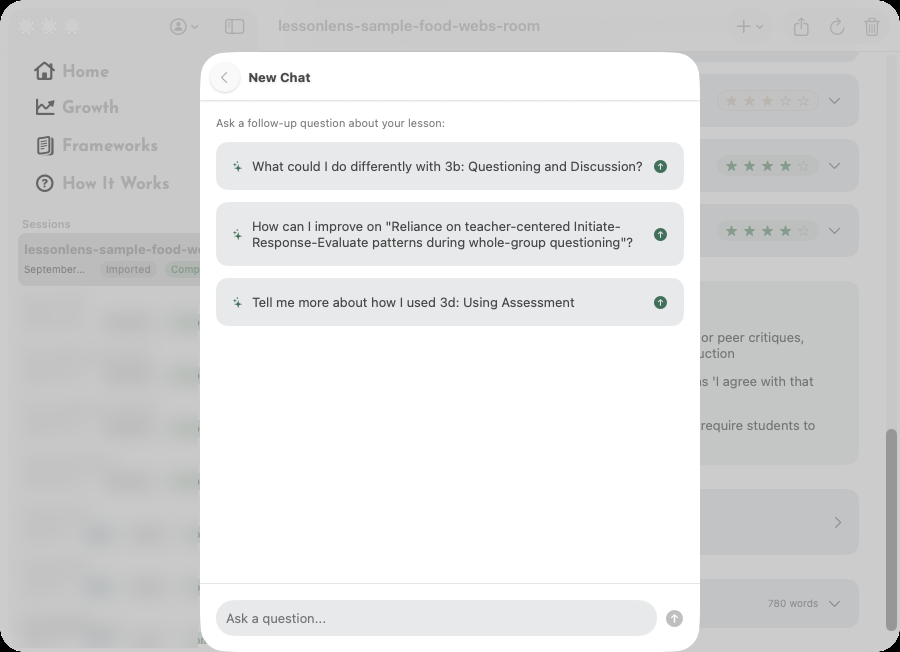
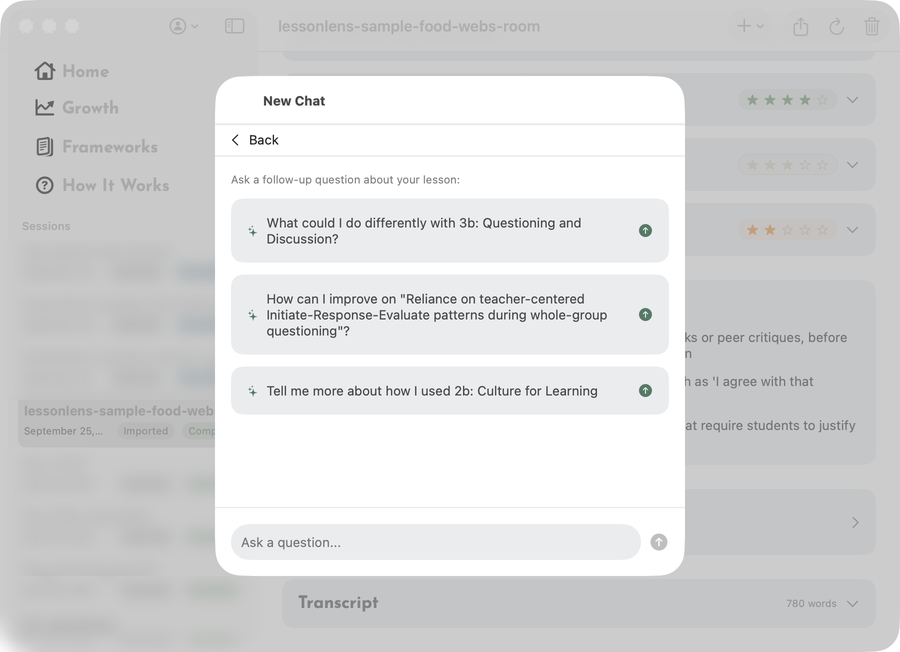
Recapture the coaching chat help screenshot for the new Back button
PR #13 replaced the dim system Back chevron in the Coaching Chats sheet
with an in-content "‹ Back" button. The help page's chat step still
showed the old chevron, and its "Back" tour hotspot pointed at it.

- docs/help/img/chat.png: new 900x652 capture of the New Chat screen on
  the fictional sample lesson "lessonlens-sample-food-webs-room", taken
  from a Debug build of main in light mode (matching the other help
  images). Captured at 2x and downscaled. Every sidebar session row
  except the sample lesson is Gaussian-blurred, including the part of
  the sidebar below the chat sheet, so no real session titles are
  published; checked by zooming the sidebar region.
- docs/help/help-steps.js: moved all three chat tour hotspots
  (Suggested questions, Ask a question..., Back) to the new layout and
  checked them by drawing them onto the image. The step text and UI
  labels are unchanged. "updated" is now 2026-09-28; "appVersion" stays
  1.1.1 because no release includes the new button yet.
- docs/help/img/chat-reply.png: deleted. No help step referenced it,
  and it showed both the old Back chevron and raw Markdown from before
  chat replies rendered Markdown (PR #8).

diff --git a/docs/help/help-steps.js b/docs/help/help-steps.js
@@ -4,7 +4,7 @@
 // image: null renders a placeholder frame that still shows the hotspot areas.
 // UI labels below are quoted from the app; keep them in sync when the app changes.
 window.LESSONLENS_HELP = {
-  "updated": "2026-09-25",
+  "updated": "2026-09-28",
   "appVersion": "1.1.1",
   "sections": [
     {
@@ -221,26 +221,26 @@ window.LESSONLENS_HELP = {
       "alt": "A new coaching chat with three suggested questions",
       "tour": [
         {
-          "x": 24,
-          "y": 21.8,
-          "w": 52,
-          "h": 28.2,
+          "x": 25,
+          "y": 29.6,
+          "w": 50.1,
+          "h": 34.7,
           "title": "Suggested questions",
           "text": "Starters based on your feedback. Click one to ask it."
         },
         {
-          "x": 24,
-          "y": 91.7,
-          "w": 52.7,
-          "h": 5.8,
+          "x": 25,
+          "y": 79.8,
+          "w": 50.1,
+          "h": 6.4,
           "title": "Ask a question...",
           "text": "Type anything about your lesson."
         },
         {
-          "x": 23.3,
-          "y": 9.5,
-          "w": 3.4,
-          "h": 4.7,
+          "x": 25,
+          "y": 19.6,
+          "w": 6.7,
+          "h": 4,
           "title": "Back",
           "text": "Returns to the list of chats for this lesson."
         }
